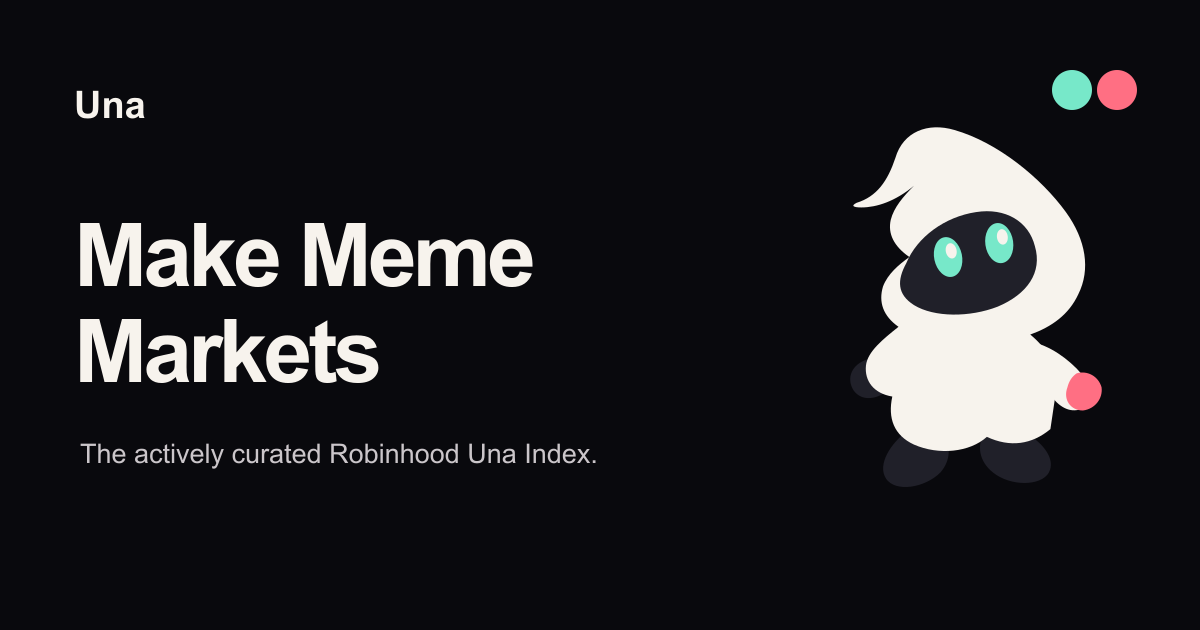
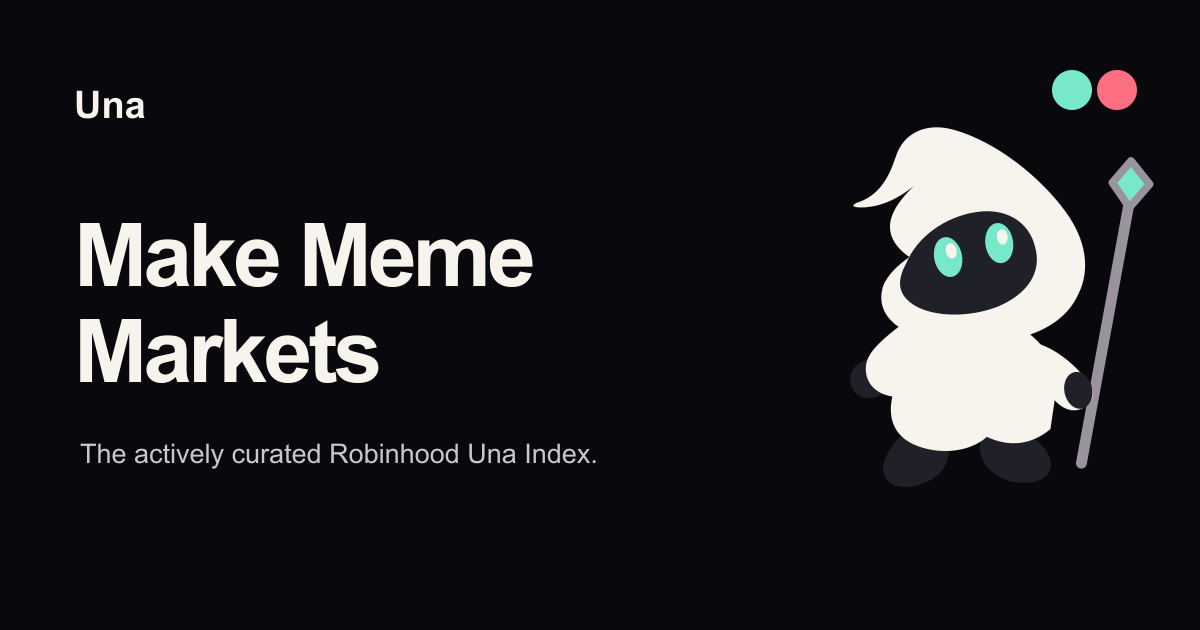
feat: give Una a crystal staff

Changed region(s): [[0.8633, 0.2413, 0.9558, 0.754]]

diff --git a/test/app-ui.test.ts b/test/app-ui.test.ts
@@ -6,6 +6,7 @@ const portfolio = readFileSync("app/portfolio-app.tsx", "utf8");
 const css = readFileSync("app/globals.css", "utf8");
 const layout = readFileSync("app/layout.tsx", "utf8");
 const providers = readFileSync("app/providers.tsx", "utf8");
+const mascot = readFileSync("public/brand/una-mascot.svg", "utf8");
 
 describe("meme index product UI", () => {
   it("leads with one consumer market-making action and honest market evidence", () => {
@@ -49,6 +50,13 @@ describe("meme index product UI", () => {
     expect(css).not.toMatch(/#FC72FF|#FF37C7|#ff007a/i);
     expect(css).not.toContain("Instrument Serif");
     expect(css).not.toMatch(/gradient/i);
+  });
+
+  it("gives the hooded mascot a crystal staff without a coral hand", () => {
+    expect(mascot).toContain("crystal-tipped staff");
+    expect(mascot).toContain('stroke="#4f4a54"');
+    expect(mascot).toContain('fill="#77e8c9"');
+    expect(mascot).not.toMatch(/#ff6f83|#e85570/i);
   });
 
   it("keeps the launch surface Robinhood-specific while preserving self-custody", () => {
